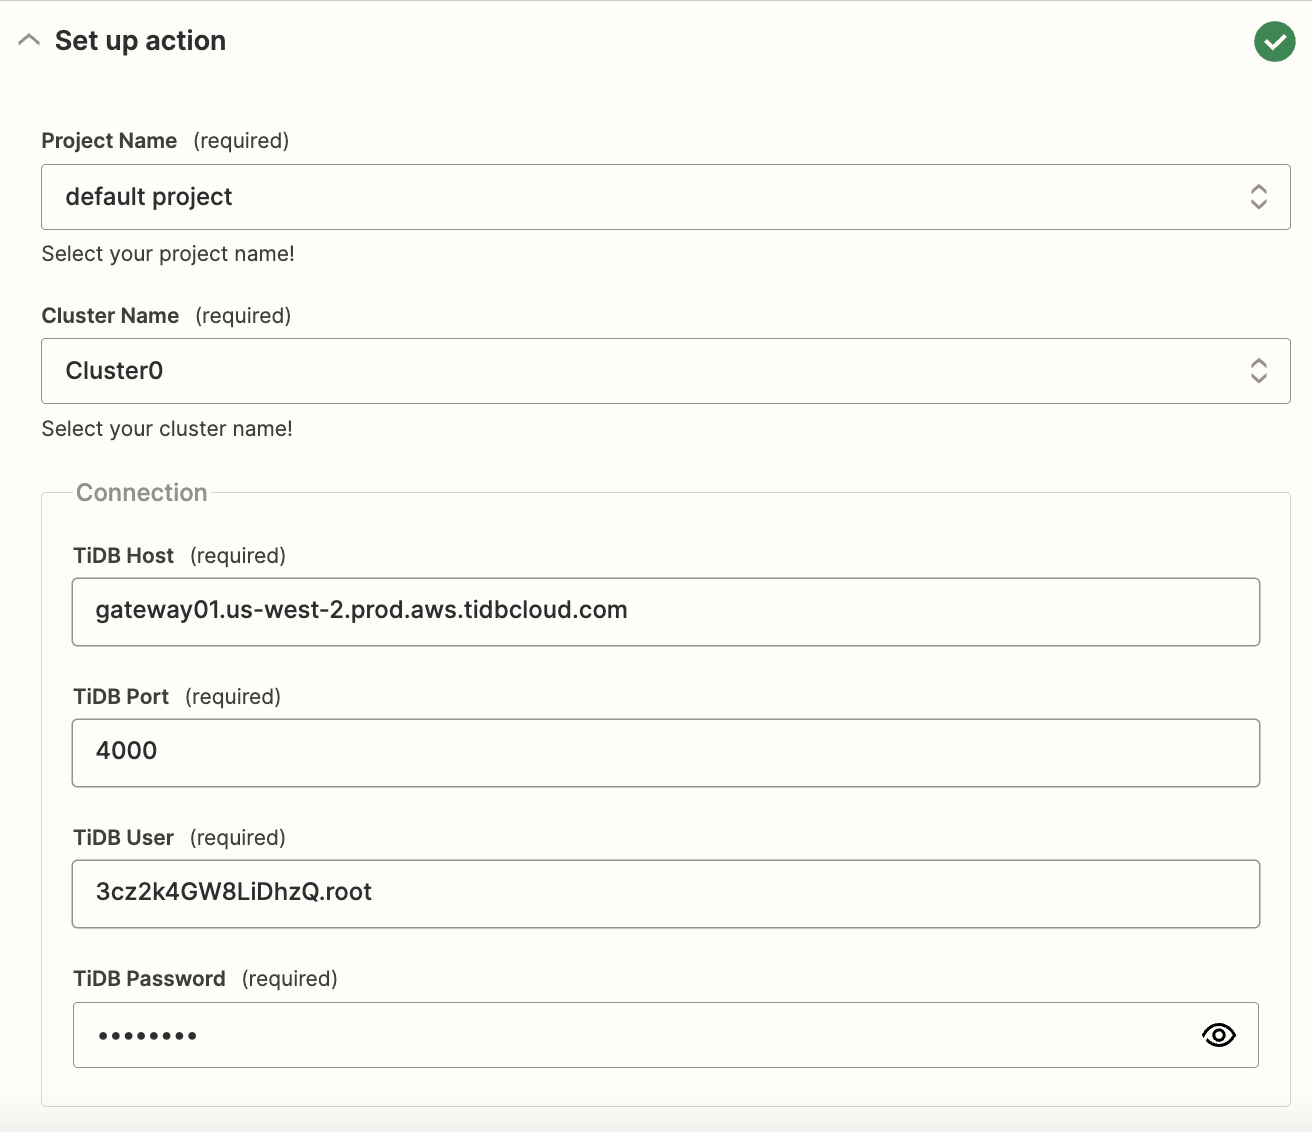
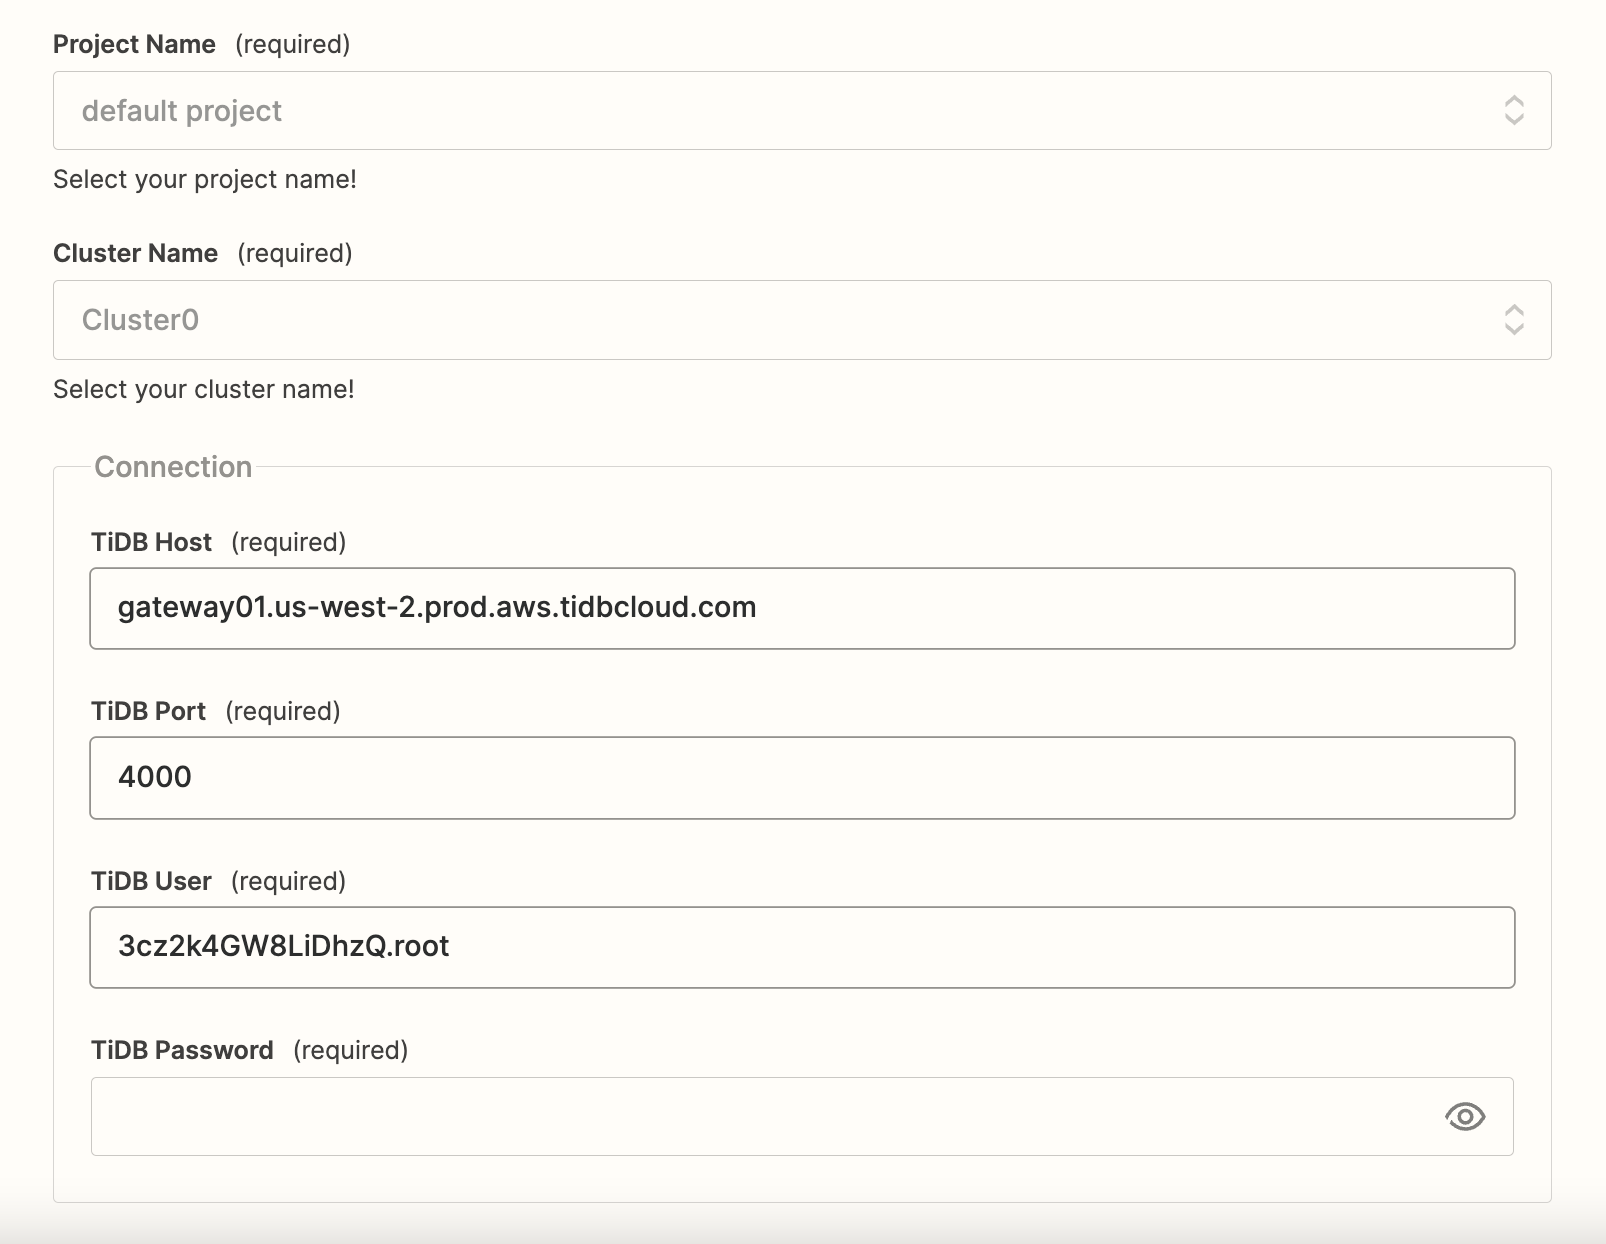
alter picture

diff --git a/tidb-cloud/integrate-tidbcloud-with-zapier.md b/tidb-cloud/integrate-tidbcloud-with-zapier.md
@@ -97,7 +97,7 @@ In the editor page, you can see the trigger and action. Click the trigger to set
 
    You can select the account you have created before. Click **Continue** to enter the next step.
 
-   ![img.png](/media/tidb-cloud/zapier/tidbcloud_choose_account.png)
+   ![img.png](/media/tidb-cloud/zapier/tidbcloud_project.png)
 
 4. Set up action
 
